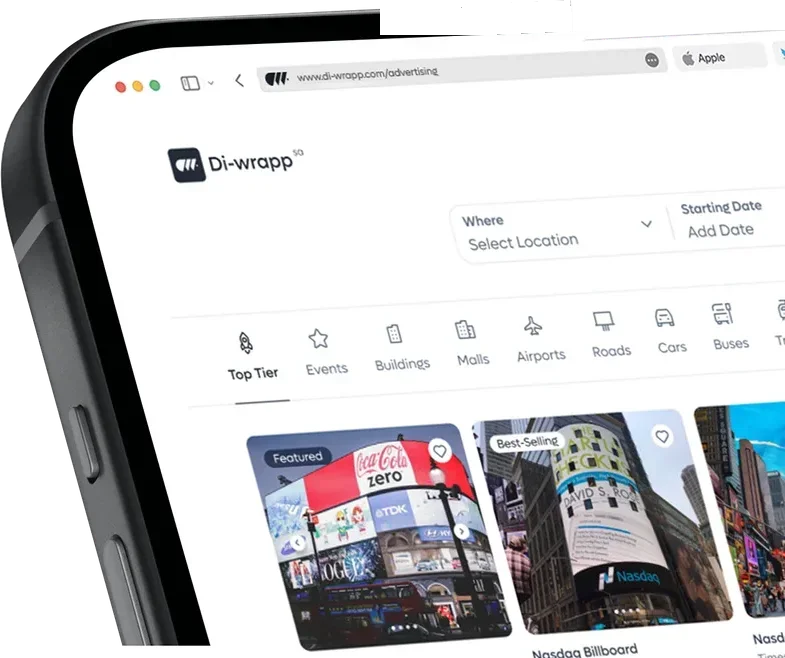
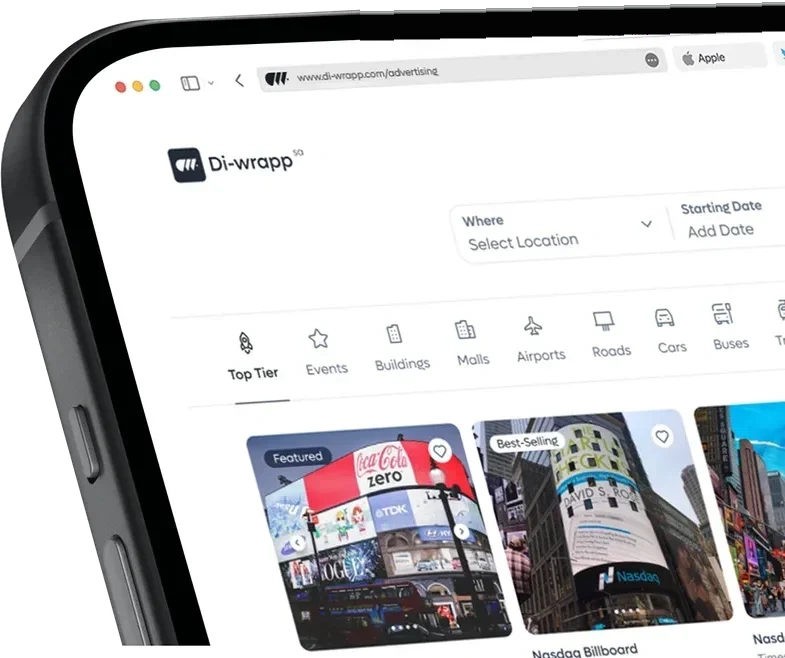
fix(landing): prevent horizontal overflow on mobile hero mockup and eyebrow badge

Changed region(s): [[0.4586, 0.0, 1.0, 0.0608]]

diff --git a/src/components/marketing/landing/HeroEyebrowBadge.tsx b/src/components/marketing/landing/HeroEyebrowBadge.tsx
@@ -7,9 +7,9 @@ interface HeroEyebrowBadgeProps {
 
 export default function HeroEyebrowBadge({ text }: HeroEyebrowBadgeProps) {
   return (
-    <div className="inline-flex items-center gap-2 px-4 py-1.5 rounded-full border border-black/10 dark:border-white/15 bg-transparent mb-6">
-      <Sparks className="w-4 h-4 text-[#344054] dark:text-neutral-300 stroke-[1.5]" strokeWidth={1.5} />
-      <span className="text-[13px] sm:text-[14px] font-medium text-[#344054] dark:text-neutral-200 font-['Lufga',sans-serif] rtl:font-['Cairo',sans-serif] tracking-tight">
+    <div className="inline-flex items-center gap-1.5 sm:gap-2 px-3 sm:px-4 py-1 sm:py-1.5 rounded-full border border-black/10 dark:border-white/15 bg-transparent mb-5 sm:mb-6 max-w-[94vw] sm:max-w-none">
+      <Sparks className="w-3.5 h-3.5 sm:w-4 sm:h-4 text-[#344054] dark:text-neutral-300 stroke-[1.5] shrink-0" strokeWidth={1.5} />
+      <span className="text-[11.5px] sm:text-[14px] font-medium text-[#344054] dark:text-neutral-200 font-['Lufga',sans-serif] rtl:font-['Cairo',sans-serif] tracking-tight text-center leading-tight">
         {text}
       </span>
     </div>

diff --git a/src/components/marketing/landing/MobileHeroMockup.tsx b/src/components/marketing/landing/MobileHeroMockup.tsx
@@ -10,7 +10,7 @@ export default function MobileHeroMockup() {
       initial={{ opacity: 0, y: 20 }}
       animate={{ opacity: 1, y: 0 }}
       transition={{ duration: 0.7, delay: 0.25, ease: [0.22, 1, 0.36, 1] as const }}
-      className="block lg:hidden w-full max-w-[480px] sm:max-w-[560px] mx-auto mt-8 sm:mt-10 mb-0 -mb-4 sm:-mb-6 pb-0 pointer-events-none select-none relative z-30 px-2 sm:px-4 translate-x-36 sm:translate-x-44 bg-transparent"
+      className="block lg:hidden w-[130%] max-w-[720px] sm:max-w-[840px] mx-auto mt-8 sm:mt-10 mb-0 -mb-4 sm:-mb-6 pb-0 pointer-events-none select-none relative z-30 px-2 sm:px-4 translate-x-36 sm:translate-x-48 rtl:-translate-x-36 rtl:sm:-translate-x-48 bg-transparent"
       style={{
         maskImage: "linear-gradient(to bottom, rgba(0,0,0,1) 0%, rgba(0,0,0,1) 50%, rgba(0,0,0,0.8) 70%, rgba(0,0,0,0.3) 88%, rgba(0,0,0,0) 100%)",
         WebkitMaskImage: "linear-gradient(to bottom, rgba(0,0,0,1) 0%, rgba(0,0,0,1) 50%, rgba(0,0,0,0.8) 70%, rgba(0,0,0,0.3) 88%, rgba(0,0,0,0) 100%)",
